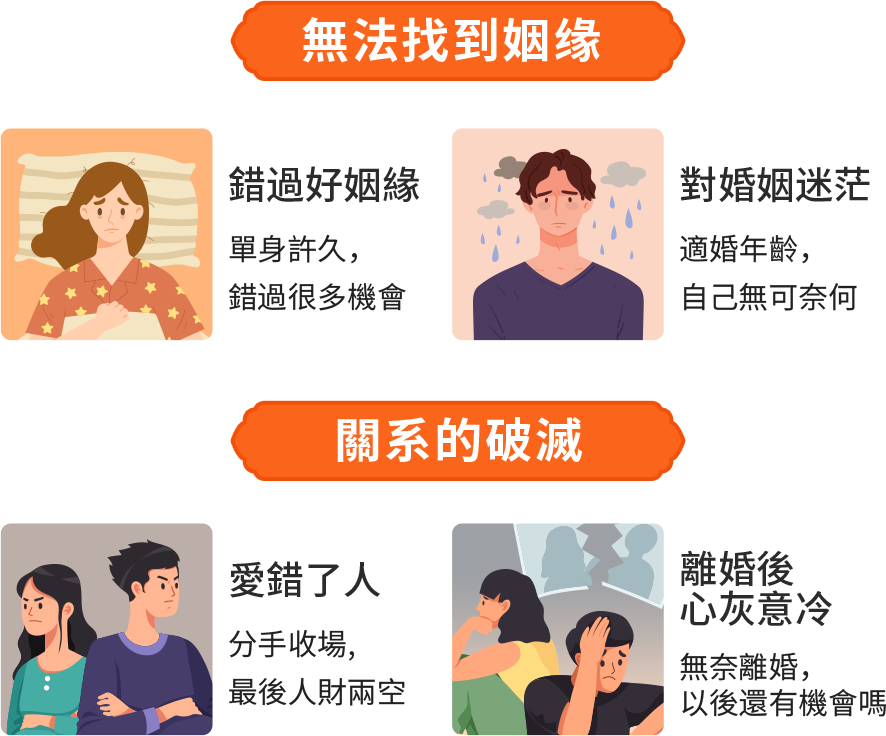
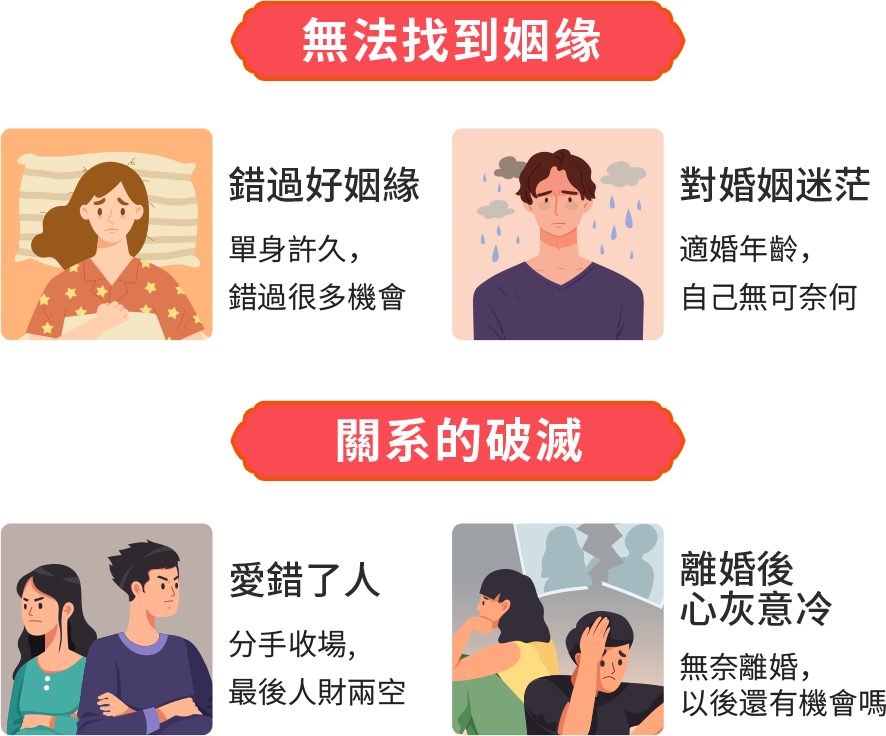
修改成粉色版本

Changed region(s): [[0.2438, 0.5312, 0.7923, 0.6562], [0.2438, 0.0, 0.7923, 0.125]]

diff --git a/src/assets/style/style.scss b/src/assets/style/style.scss
@@ -2,7 +2,7 @@ body {
 	position: relative;
 	padding: 0;
 	font: normal 45px "Microsoft YaHei", Arial, sans-serif;
-	background: #ad261d;
+	background: #ffebed;
 }
 
 img {
@@ -20,7 +20,7 @@ img {
 
 	.banner {
 		width: 100%;
-		height: 883px;
+		height: auto;
 
 		img {
 			max-width: 100%;
@@ -46,10 +46,10 @@ img {
 	.content1 {
 		width: 1002px;
 		height: 934px;
-		background: #ffe2b0;
+		background: #ffbbc2;
 		border-radius: 20px;
 		margin: 120px auto 0;
-		padding: 25px 40px;
+		padding: 25px;
 		box-sizing: border-box;
 
 		.content__wrap {
@@ -57,7 +57,7 @@ img {
 			height: 100%;
 			margin: 0 auto;
 			border: 1px solid #ffa133;
-			background: rgb(255 255 255 / 49.5%);
+			background: #fff;
 
 			.con__wrap {
 				width: 100%;
@@ -71,10 +71,10 @@ img {
 	.content2 {
 		width: 1002px;
 		height: 689px;
-		background: #ffe2b0;
+		background: #ffbbc2;
 		border-radius: 20px;
 		margin: 150px auto 0;
-		padding: 25px 40px;
+		padding: 25px;
 		box-sizing: border-box;
 
 		.content__wrap {
@@ -82,7 +82,7 @@ img {
 			height: 100%;
 			margin: 0 auto;
 			border: 1px solid #ffa133;
-			background: rgb(255 255 255 / 49.5%);
+			background: #fff;
 
 			.tit__s {
 				font-size: 41px;
@@ -209,7 +209,7 @@ img {
 		display: flex;
 		justify-content: center;
 		align-items: center;
-		color: #fff08a;
+		color: rgb(175, 22, 20);
 	}
 
 	.custom__radio {
@@ -351,8 +351,8 @@ img {
 	font-size: 60px;
 	line-height: 150px;
 	color: #ffe2b0;
-	background: url("../img/btn.png") no-repeat center;
-	background-size: 100% 100%;
+	background: #e0345a;
+	border-radius: 10px;
 	cursor: pointer;
 	animation: resize-animation 2s infinite;
 }
@@ -459,8 +459,8 @@ img {
 			padding: 0 44px 70px;
 			font-size: 43px;
 			line-height: 60px;
-			background-color: rgb(255 249 239);
-			border: 1px solid rgb(238 195 155);
+			background-color: #fff;
+			border: 1px solid rgb(244 208 209);
 			border-radius: 10px;
 			margin-top: 90px;
 			box-sizing: border-box;
@@ -473,7 +473,7 @@ img {
 				width: 986px;
 				height: 100%;
 				content: "";
-				background: rgb(242 220 206);
+				background: rgb(244 208 209);
 				border-radius: 10px;
 			}
 		}
@@ -545,13 +545,13 @@ img {
 
 						.submit__btn {
 							width: 863px;
-							height: 212px;
+							height: 130px;
 							font-size: 60px;
-							line-height: 200px;
+							line-height: 130px;
+							border-radius: 10px;
 							margin-top: 100px;
 							color: #fff;
-							background: url("../img/unlock-btn.png") no-repeat center;
-							background-size: 100% 100%;
+							background: #de3e68;
 						}
 					}
 				}
@@ -580,7 +580,7 @@ img {
 	.pay__tips {
 		width: 100%;
 		font-size: 38px;
-		color: #fff;
+		color: #de3e68;
 	}
 
 	.pay__wrap {
@@ -598,7 +598,7 @@ img {
 			padding: 10px 40px;
 			box-sizing: border-box;
 			color: #413632;
-			background: #fa641b;
+			background: #fac5d0;
 
 			.destiny__type {
 				font-size: 35px;
@@ -701,14 +701,14 @@ img {
 			display: flex;
 			justify-content: center;
 			width: 100%;
-			height: 150px;
+			height: 130px;
 			margin: 0 auto;
 			font-size: 60px;
-			line-height: 150px;
+			line-height: 130px;
 			color: #ffe2b0;
-			background: url("../img/btn.png") no-repeat center;
+			background: #de3e68;
 			border: none;
-			background-size: 100% 100%;
+			border-radius: 10px;
 			cursor: pointer;
 
 			&.lock {
@@ -790,16 +790,17 @@ p {
 }
 .privacy {
 	margin-bottom: 20px;
+	margin-top: 30px;
 	font-size: 40px;
 	display: flex;
 	justify-content: center;
 	align-items: center;
 	.privacy__link {
-		color: rgb(248 230 132);
+		color: #fe7929;
 		display: inline-block;
 	}
 	.van-checkbox__label {
-		color: #f3c596;
+		color: rgb(175, 22, 20);
 	}
 }
 .privacy__wrap {
@@ -816,4 +817,9 @@ p {
 		font-size: 40px;
 		text-align: justify;
 	}
+}
+.van-overlay {
+	// background: #fff !important;
+	// opacity: 0.8;
+	backdrop-filter: blur(20px);
 }

diff --git a/src/views/Payment.vue b/src/views/Payment.vue
@@ -4,10 +4,36 @@
 			<div class="pay__tips">
 				已為2978346人進行測試，成功幫助208538人找到愛情，97.8%以上的測算用戶都覺得對自身的感情有很大的幫助。
 			</div>
+			<div class="pay__tips">
+				透過傳統紫微斗數，為您精準推演感情運勢，包含結婚時機、另一半的長相與家世等重要關鍵，讓您更清楚自己的緣分走向，輕鬆把握幸福！
+			</div>
 			<div class="pay__wrap">
 				<div class="pay__hd">
 					<div class="destiny__type">
-						測算項目：<span class="tit">單身尋找姻緣</span>
+						測算項目：
+						<span
+							class="tit"
+							v-show="
+								trackStore.rawFormData.destinyType === 'destiny_type_single'
+							"
+							>單身尋找姻緣</span
+						>
+						<span
+							class="tit"
+							v-show="
+								trackStore.rawFormData.destinyType === 'destiny_type_broken'
+							"
+							>破裂關係走向</span
+						>
+						<span
+							class="tit"
+							v-show="
+								!['destiny_type_single', 'destiny_type_broken'].includes(
+									trackStore.rawFormData.destinyType,
+								)
+							"
+							>姻緣命書</span
+						>
 					</div>
 					<div class="left__time">
 						<div class="time__title">距優惠結束：</div>
@@ -90,7 +116,7 @@
 			const countdownEnded = ref(false)
 
 			const trackStore = useDataStore()
-
+			console.log(trackStore.rawFormData.destinyType)
 			// 格式化时间为 mm:ss:ms
 			const formattedTime = computed(() => {
 				const totalMilliseconds = countdownTime.value
@@ -215,6 +241,7 @@
 			return {
 				checked,
 				email,
+				trackStore,
 				showPaypalDialog,
 				formattedTime,
 				countdownEnded,

diff --git a/src/views/Detail.vue b/src/views/Detail.vue
@@ -1,20 +1,20 @@
 <template>
 	<div class="detail__page" id="pdf-content">
-		<div class="banner">
+		<!-- <div class="banner">
 			<img src="../assets/img/detail-banner.jpg" alt="" />
-		</div>
+		</div> -->
 		<PaymentModule />
 
 		<div class="page__title">
 			<span
 				class="title__txt"
 				v-show="rawFormData.destinyType === 'destiny_type_single'"
-				>單身尋找姻緣</span
+				>姻緣命書</span
 			>
 			<span
 				class="title__txt"
 				v-show="rawFormData.destinyType === 'destiny_type_broken'"
-				>破裂關係走向</span
+				>姻緣命書</span
 			>
 			<span
 				v-show="
@@ -22,7 +22,7 @@
 						rawFormData.destinyType,
 					)
 				"
-				>未知的命运类型</span
+				>姻緣命書</span
 			>
 		</div>
 		<div class="detail__wrap" v-if="responseData">
@@ -178,6 +178,7 @@
 				// 显示加载提示
 				const toast = showLoadingToast({
 					message: "大師正在預測中...",
+					overlay: true,
 					duration: 0, // 持续显示，直到手动关闭
 				})
 				// 表单提交
@@ -190,6 +191,11 @@
 						})
 						responseData.value = response.data
 						closeToast(toast)
+						dataStore.setTrackData({
+							action: "action_free_report",
+							actionTimestamp: entryTime.value,
+						})
+						await postTrackInfo(dataStore.trackData)
 					} else {
 						// 请求失败，关闭加载提示并弹出错误提示
 						responseData.value = ""
@@ -223,7 +229,7 @@
 			//
 			const handleNavigation = () => {
 				window.scrollTo({
-					top: 200, // 滚动到页面顶部
+					top: 0, // 滚动到页面顶部
 					behavior: "smooth", // 平滑滚动
 				})
 			}

diff --git a/src/views/Info.vue b/src/views/Info.vue
@@ -39,7 +39,7 @@
 					v-model:gregorianBirthday="formData.gregorianBirthday"
 				/>
 
-				<div class="requirement__group">
+				<!-- <div class="requirement__group">
 					<van-button
 						:class="{ active: selectedValue === 'Button1' }"
 						@click="selectButton($event, 'Button1')"
@@ -52,7 +52,7 @@
 					>
 						破裂關係走向
 					</van-button>
-				</div>
+				</div> -->
 				<div class="privacy">
 					<van-checkbox
 						v-model="privacyChecked"
@@ -70,10 +70,10 @@
 					>
 				</div>
 				<div v-if="!showFootBtn" class="submit__btn" @click="handleSubmit">
-					免費查看報告
+					立即測算
 				</div>
 				<div v-if="showFootBtn" class="foot__btn">
-					<div class="submit__btn" @click="handleScrollToTop">免費查看報告</div>
+					<div class="submit__btn" @click="handleScrollToTop">立即測算</div>
 				</div>
 			</form>
 		</div>
@@ -142,7 +142,7 @@
 				name,
 				lunarBirthday,
 				gregorianBirthday,
-				destinyType,
+				// destinyType,
 				privacyChecked,
 			}) => {
 				const checks = [
@@ -152,7 +152,7 @@
 						condition: !lunarBirthday && !gregorianBirthday,
 						message: "請選擇出生日期",
 					},
-					{ condition: !destinyType, message: "請選擇您的需求" },
+					// { condition: !destinyType, message: "請選擇您的需求" },
 					{ condition: !privacyChecked, message: "請同意用戶協議" },
 				]
 

diff --git a/index.html b/index.html
@@ -18,6 +18,42 @@
 		/>
 		<!-- 开启底部安全区适配 -->
 		<van-number-keyboard safe-area-inset-bottom />
+		<!-- Facebook Pixel Code -->
+		<script>
+			!(function (f, b, e, v, n, t, s) {
+				if (f.fbq) return
+				n = f.fbq = function () {
+					n.callMethod
+						? n.callMethod.apply(n, arguments)
+						: n.queue.push(arguments)
+				}
+				if (!f._fbq) f._fbq = n
+				n.push = n
+				n.loaded = !0
+				n.version = "2.0"
+				n.queue = []
+				t = b.createElement(e)
+				t.async = !0
+				t.src = v
+				s = b.getElementsByTagName(e)[0]
+				s.parentNode.insertBefore(t, s)
+			})(
+				window,
+				document,
+				"script",
+				"https://connect.facebook.net/en_US/fbevents.js",
+			)
+			fbq("init", "1292240052212064") // 替换 YOUR_PIXEL_ID
+			fbq("track", "PageView")
+		</script>
+		<noscript
+			><img
+				height="1"
+				width="1"
+				style="display: none"
+				src="https://www.facebook.com/tr?id=1292240052212064&ev=PageView&noscript=1"
+		/></noscript>
+		<!-- End Facebook Pixel Code -->
 		<script
 			src="https://www.paypal.com/sdk/js?client-id=AdWNQTN5CMTvB6Yq8c8aqg-ffzvcyhSwsIVkOG4GqaohCNhXXV6cKCHJgqoXPXbMBmVmkaHx8vo-ighq&currency=USD"
 			crossorigin="anonymous"
